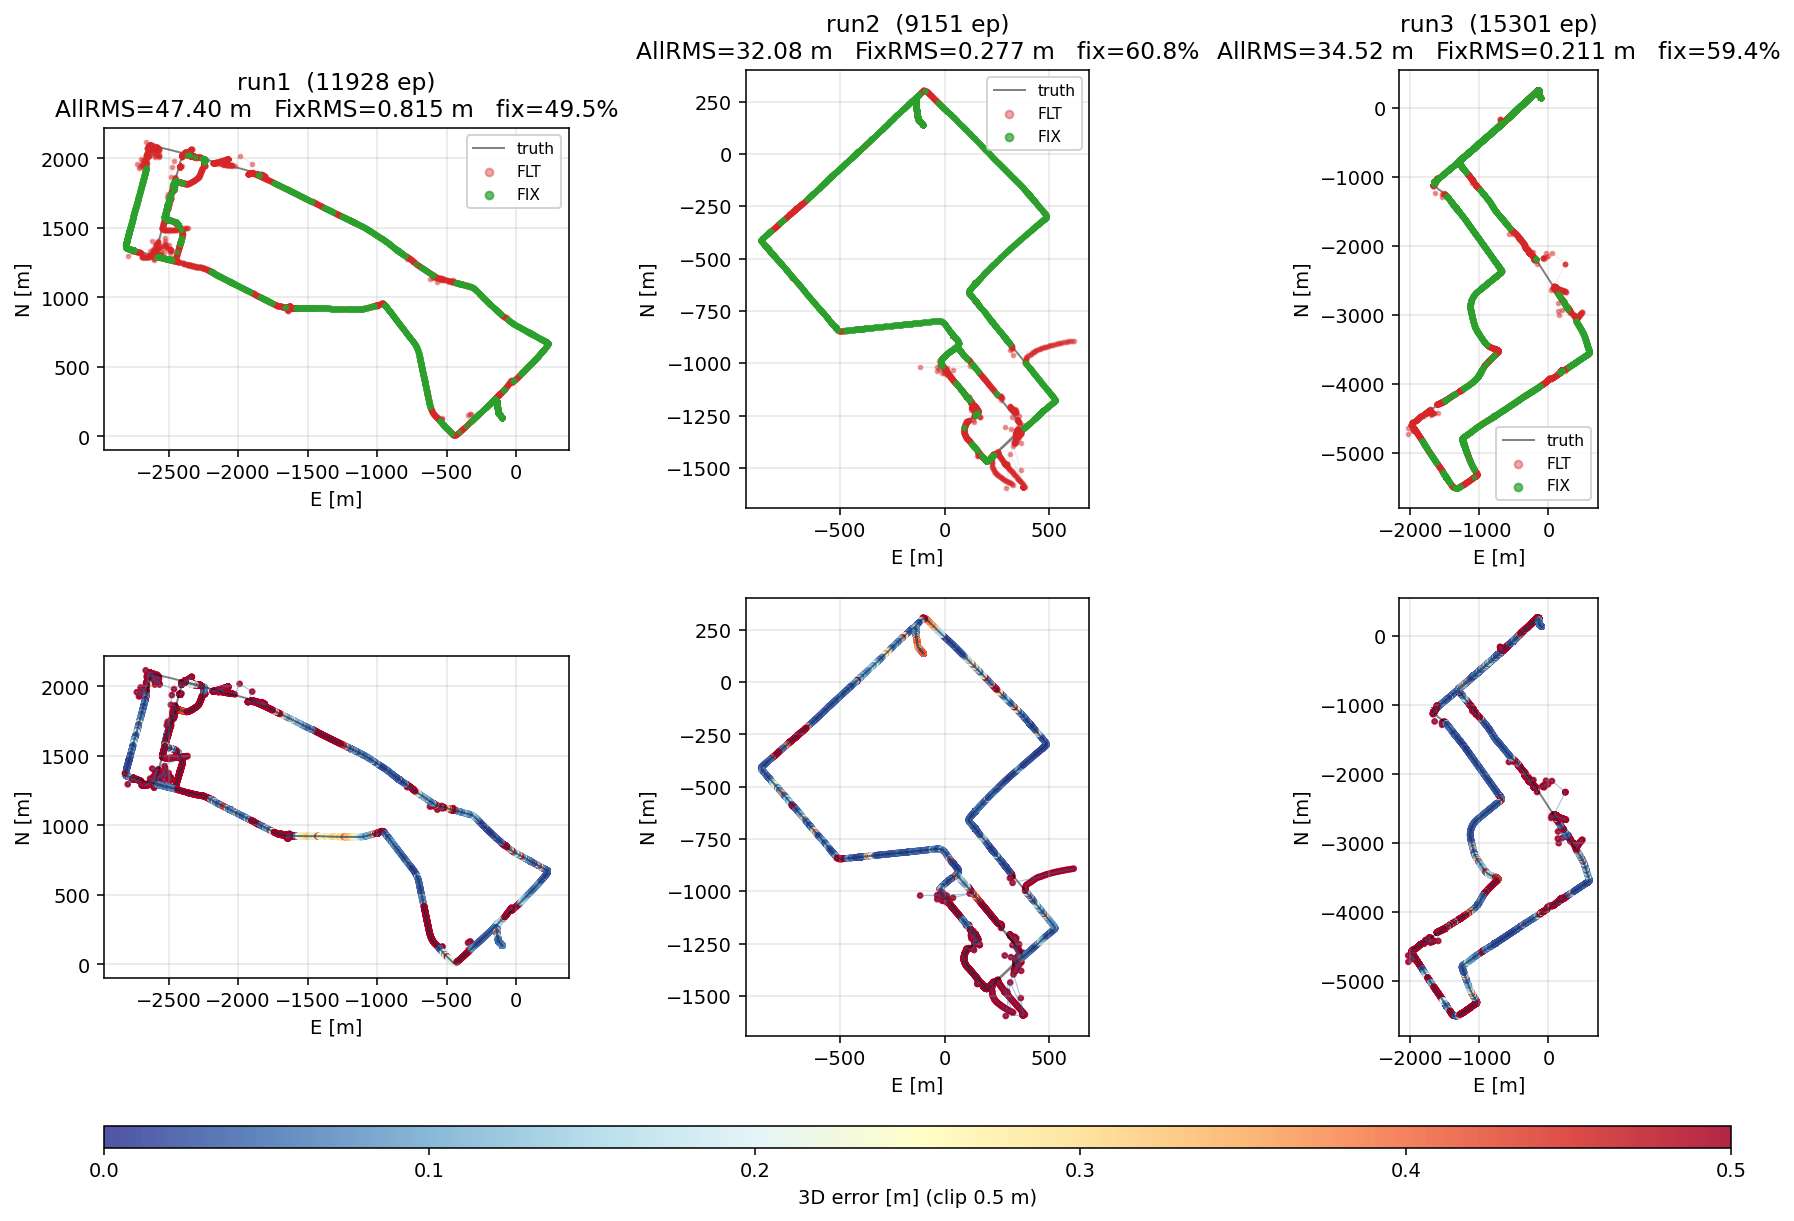
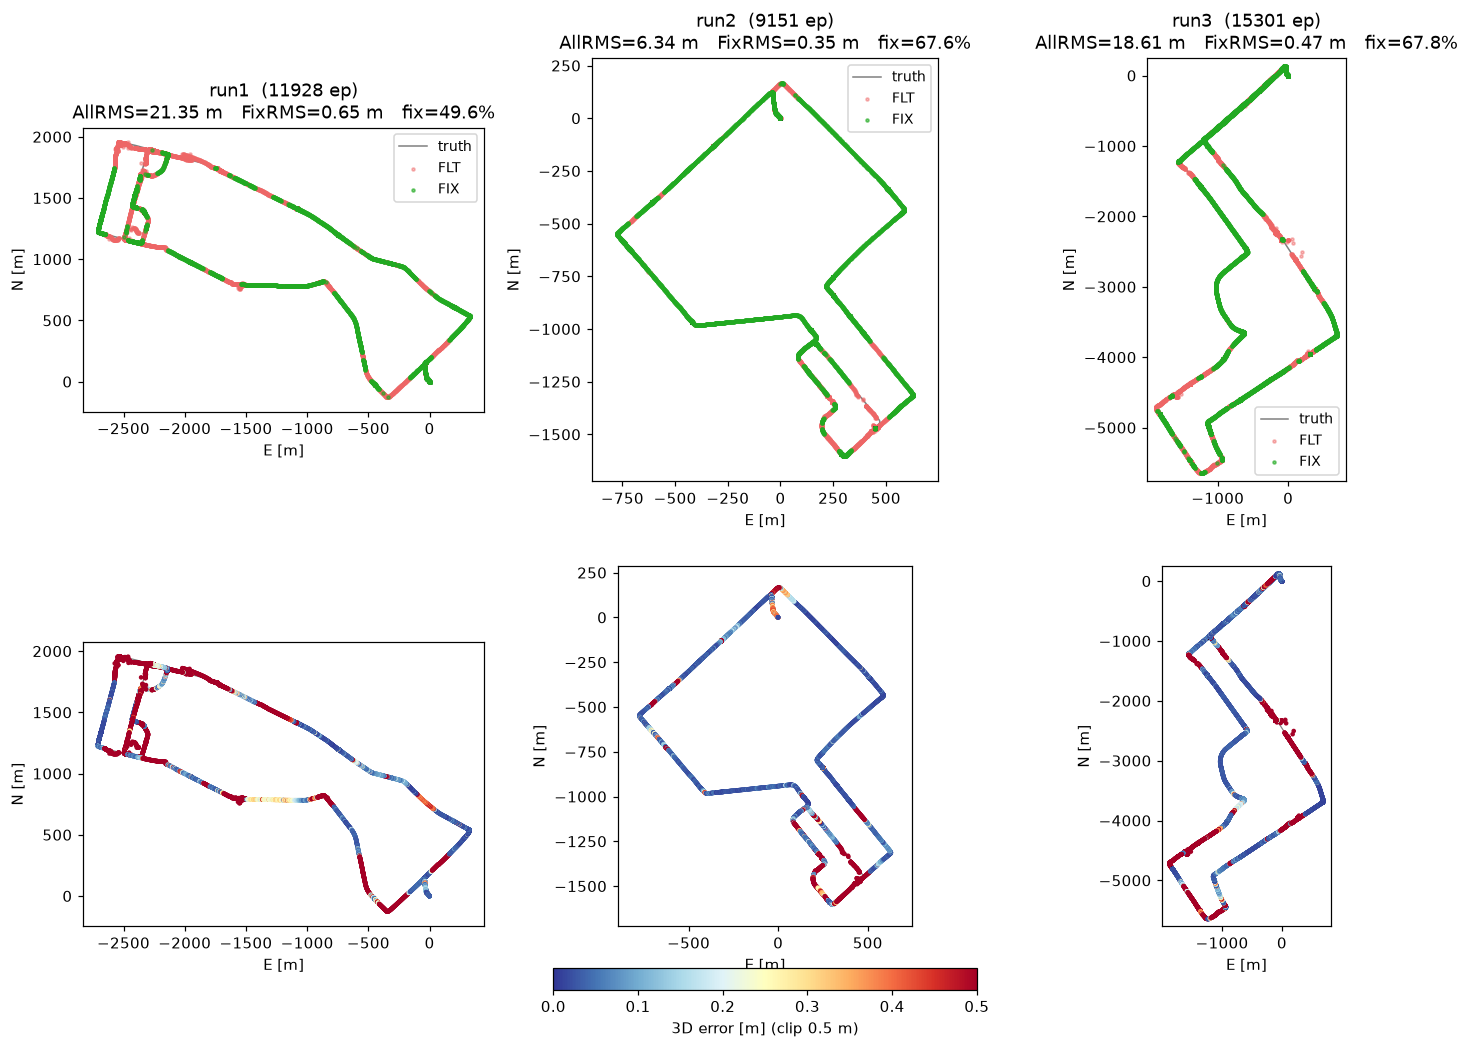
Update Tokyo PPC results: clock-free seeding, SD Doppler, AR gates
Refreshed figure and numbers from the current pipeline defaults:
fix rates 49.6-67.8% (was 49.5-60.8%), within-50cm 55.4-75.4%
(was 56.7-69.9%), FixRMS 0.35-0.65 m (was 0.21-0.81 m).

diff --git a/_posts/2026-06-10-rtk-gnss-double-difference.md b/_posts/2026-06-10-rtk-gnss-double-difference.md
@@ -97,7 +97,7 @@ The evaluation uses the lever-arm DD factors together with `CombinedImuFactor`, 
 </figure>
 <br />
 
-The three runs achieve **49.5--60.8% fix rates** and **56.7--69.9% of epochs within 50 cm** error. Fixed epochs are mostly accurate to a few centimeters, but occasional incorrect fixes inflate the RMS to 0.21--0.81 m.
+The three runs achieve **49.6--67.8% fix rates** and **55.4--75.4% of epochs within 50 cm** error, with fixed-epoch RMS of 0.35--0.65 m. Since the original version of this post, the pipeline gained clock-free ambiguity seeding (single-differenced phase minus code, so fix-and-hold survives receiver clock drift), between-satellite single-differenced Doppler factors for velocity aiding through outages, and geometry/residual gates on the integer fixing step -- together roughly halving the full-run RMS on all three sequences.
 
 With GNSS and IMU alone, the estimate drifts during long GNSS outages (under overpasses or in tunnels). Adding LiDAR or wheel odometry factors on the same poses keeps the estimate stable through these gaps.
 
